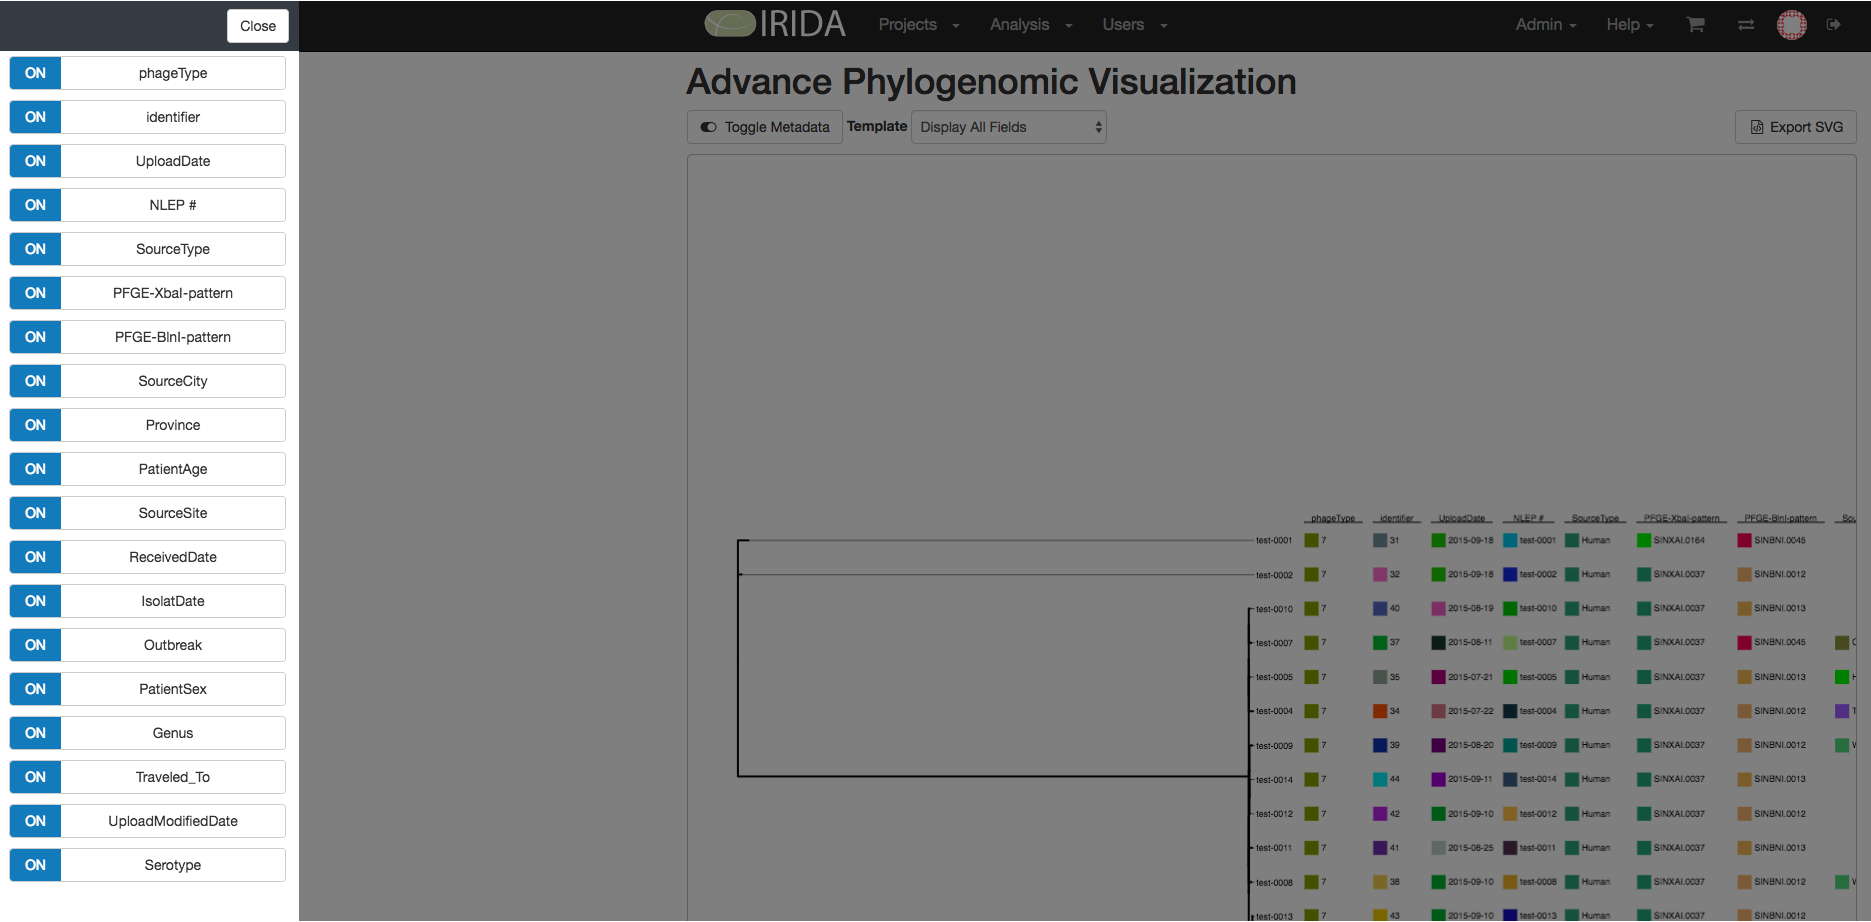
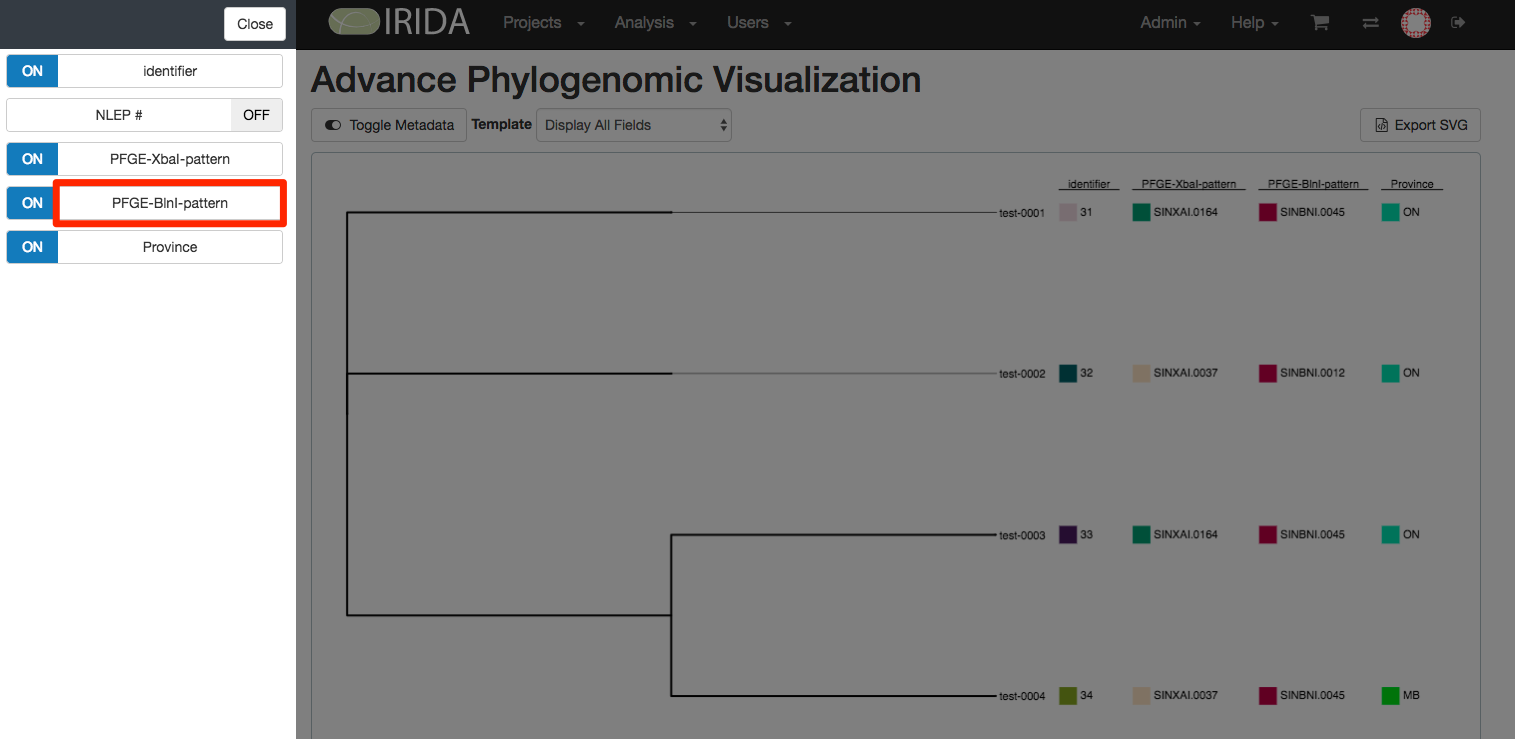
Updated images

diff --git a/doc/user/user/analysis-visualizations/index.md b/doc/user/user/analysis-visualizations/index.md
@@ -39,6 +39,10 @@ Individual metadata field by clicking on the field label in the side panel.
 
 ![Toggle metadata field](images/toggle_metadatafield.png)
 
+After selecting 'PFGE-BlnI-pattern' the toggle is set to off and the metadata column is removed from the image.
+
+![Result of removing 'PFGE-BlnI-pattern'](images/toggle_metadatafield_after.png)
+
 #### Export to SVG
 
 To export a copy of the visualization into SVG format, simply click on the `Export SVG` button in the upper right.
